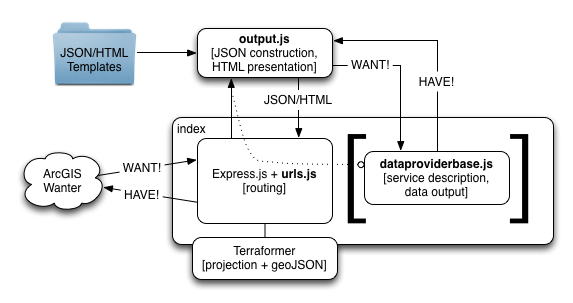
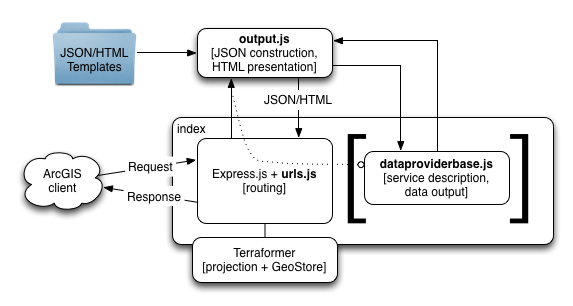
Changes to ReadMe and Diagram

diff --git a/README.md b/README.md
@@ -3,24 +3,26 @@ node-geoservices-adaptor
 
 This is a [node.js](http://nodejs.org) implementation of the [ArcGIS REST API](http://resources.arcgis.com/en/help/arcgis-rest-api/).
 
-This allows simple read-only access by ArcGIS tools, apps, and APIs, including [ArcGIS Runtime SDKs](https://developers.arcgis.com/en/documentation/) (iOS, Android, Mac OS X, Windows Phone, etc.), [ArcGIS API for JavaScript](https://developers.arcgis.com/en/javascript/), [esri-leaflet](http://esri.github.io/esri-leaflet/), [ArcGIS Desktop](http://www.esri.com/software/arcgis/arcgis-for-desktop) etc.
+It allows simple read-only access by ArcGIS tools, apps, and APIs, including [ArcGIS Runtime SDKs](https://developers.arcgis.com/en/documentation/) (iOS, Android, Mac OS X, Windows Phone, etc.), [ArcGIS API for JavaScript](https://developers.arcgis.com/en/javascript/), [esri-leaflet](http://esri.github.io/esri-leaflet/), [ArcGIS Desktop](http://www.esri.com/software/arcgis/arcgis-for-desktop) etc.
 
-View live at http://geonode.geeknixta.com
+It also provides HTML to let users browse available services.
+
+View a [live demo](http://geonode.geeknixta.com).
+
+![Sample Image]
 
 ##Introduction
-The application handles mapping ArcGIS Server-style FeatureService REST requests to "data providers", and the presentation of "data provider" output back to the caller in appropriate ArcGIS JSON Output format.
+The application handles ArcGIS REST API requests to custom "data providers", and returns their output in ArcGIS JSON format.
 
-This prototype application has two sample data providers:
+Here are two sample "data providers":
 
-* CityBikes: Provide data from http://api.citybik.es.
-* GeoHub: Provide data from geoJSON files stored in GitHub Repositories and Gists.
+* **CityBikes**: Provide data from http://api.citybik.es.
+* **GeoHub**: Provide data from geoJSON files stored in GitHub Repositories and Gists.
 
-You can similarly create your own data providers:
+The framework lets you build your own "data providers":
 
-1. Build your own subclass of `dataproviderbase.DataProviderBase` (see [citybike.js](https://github.com/ArcGIS/node-geoservices-adaptor/blob/master/dataProviders/citybikes.js) for a sample). Override only what you need to.
-2. Add instances of your subclass to the `dataProviders` array in `index.js`
-
-The application handles generating appropriate HTML for each endpoint to help explore the services and reach a FeatureLayer endpoint for consumption by the ArcGIS tools and APIs ([example here](http://geonode.geeknixta.com/citybikes/rest/services/citibikenyc/FeatureServer/0)).
+1. Subclass `dataproviderbase.DataProviderBase`. Override only what you need to.
+2. Add instances of your subclass to the `dataProviders` array in `index.js`.
 
 At a glance, this is how it works:
 
@@ -32,7 +34,7 @@ At a glance, this is how it works:
 
 By using the Esri [Terraformer](https://github.com/esri/terraformer) library's `GeoStore` component, the application is able to support spatial caching and indexing for data providers. Terraformer also provides outputting in [geoJSON](http://www.geojson.org/geojson-spec.html) by specifying `f=geojson`.
 
-**Note:** This is very much a proof of concept and a developer's playground. Just try to find the tests. Tests?! What tests?. For robustness, look at [Koop]().
+**Note:** This project is very much a proof of concept on how to implement the ArcGIS REST API. Another good example can be found in [Koop](https://github.com/esri/koop).
 
 ## Requirements
 * [node.js](http://nodejs.org)
